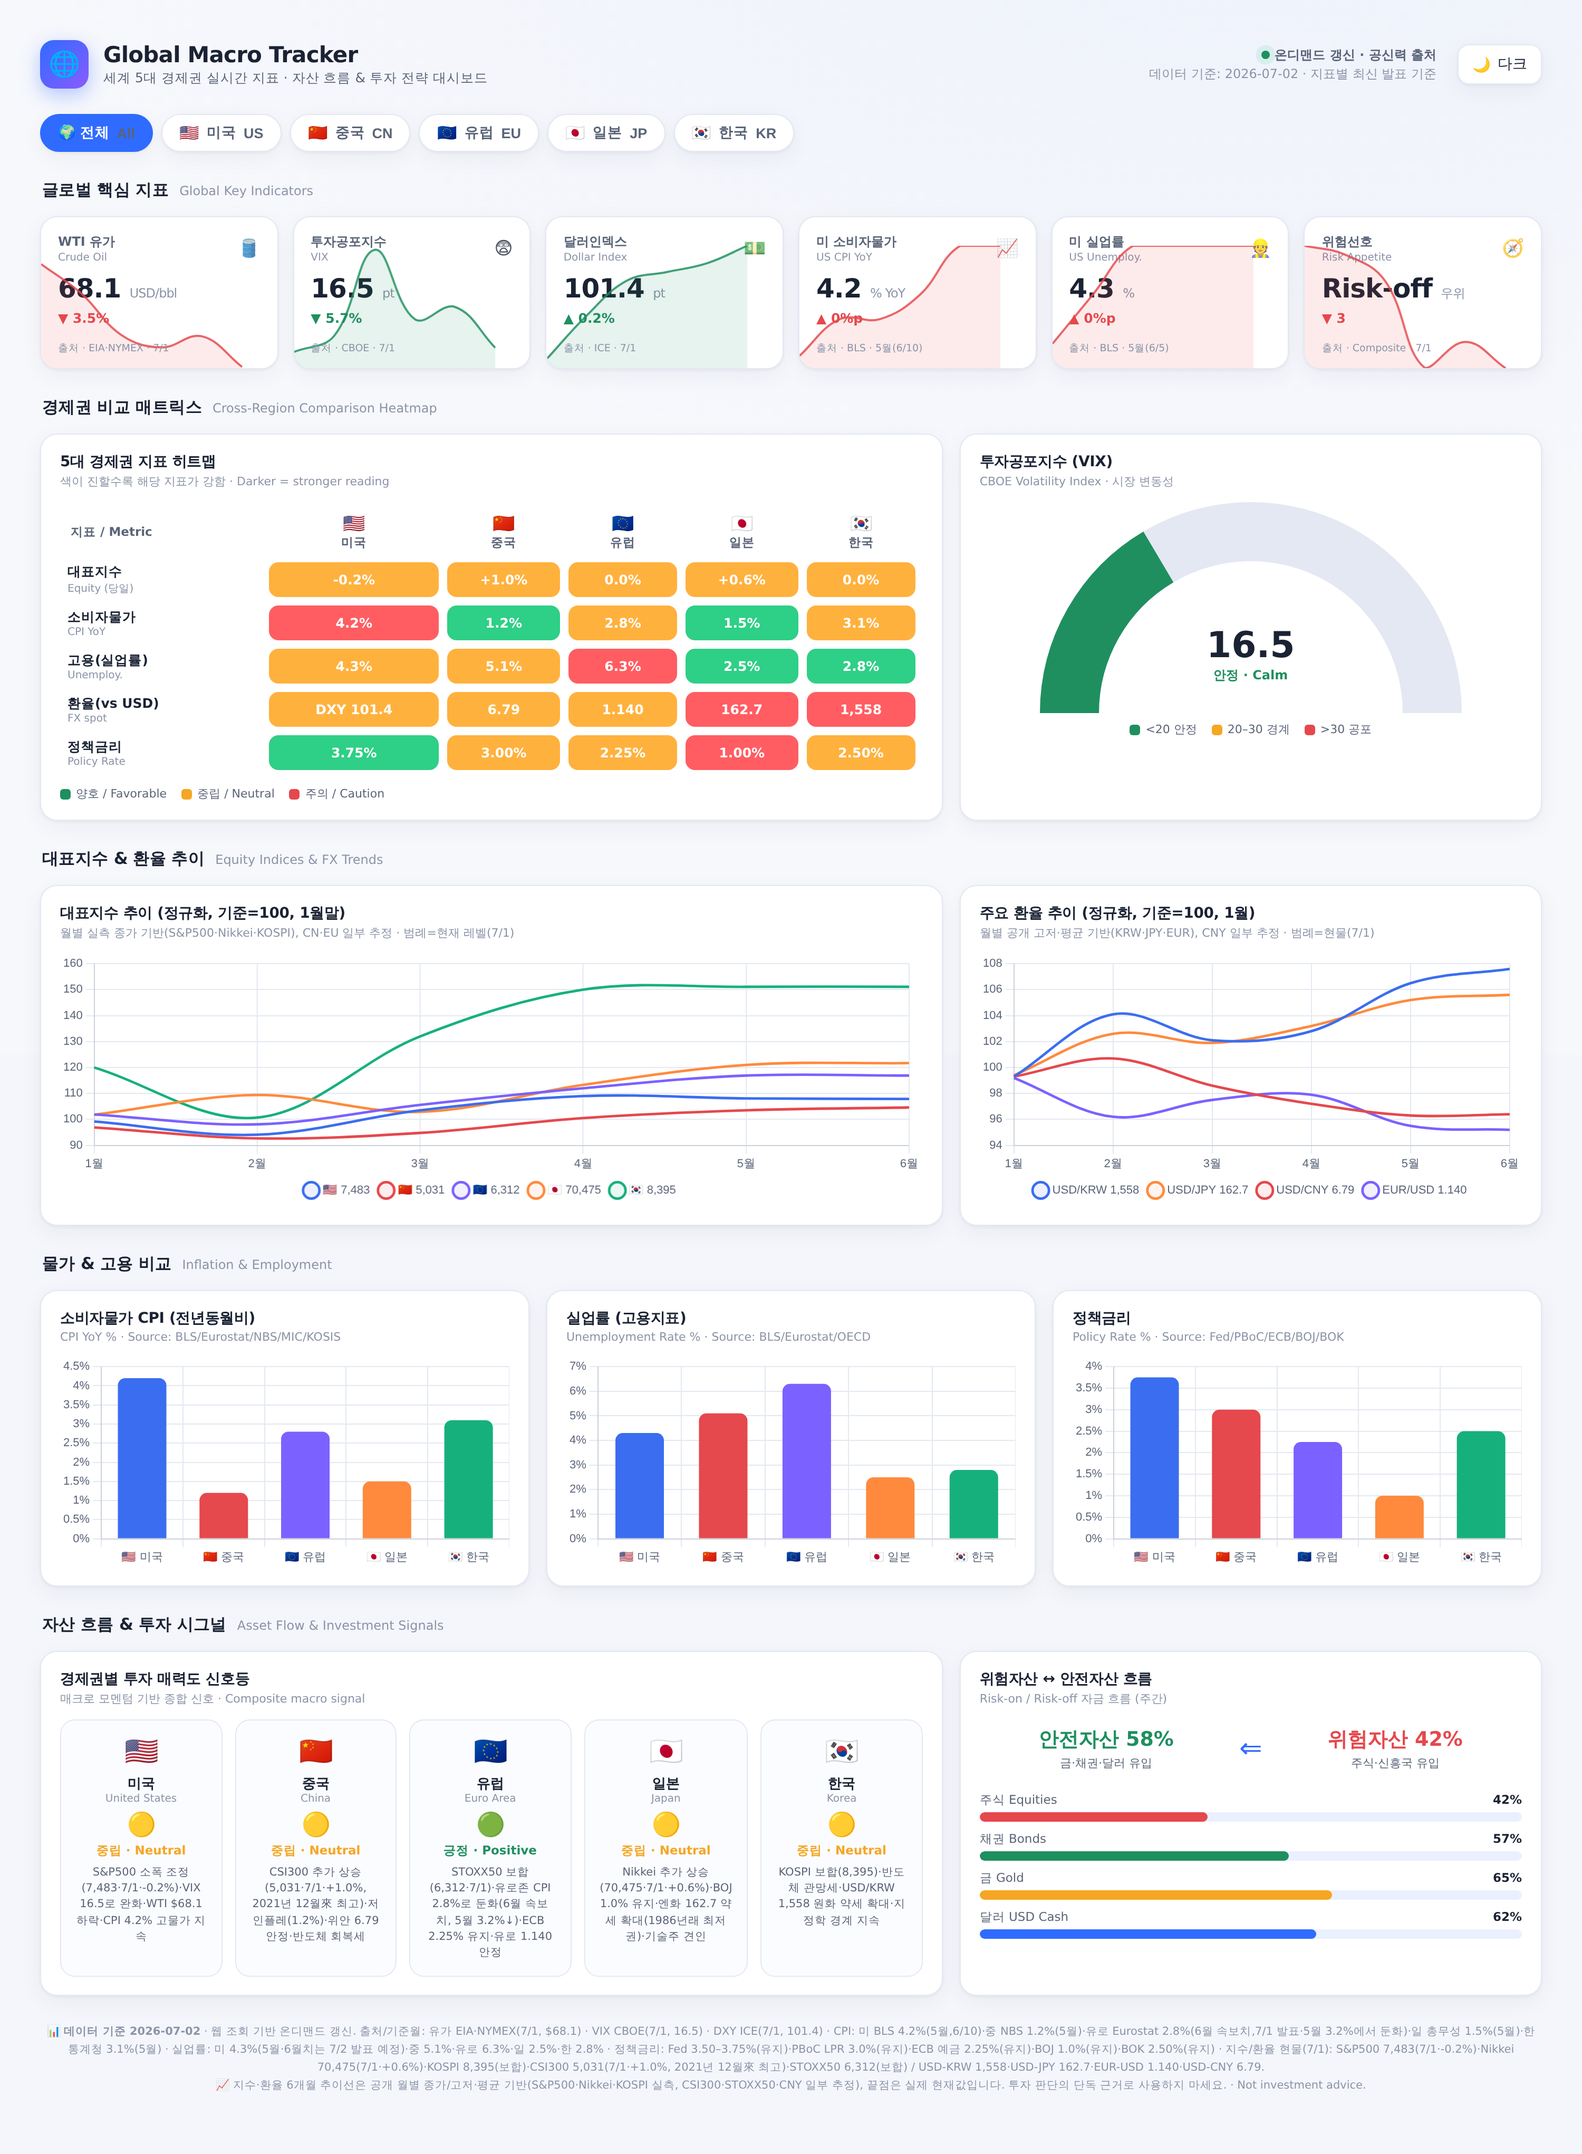
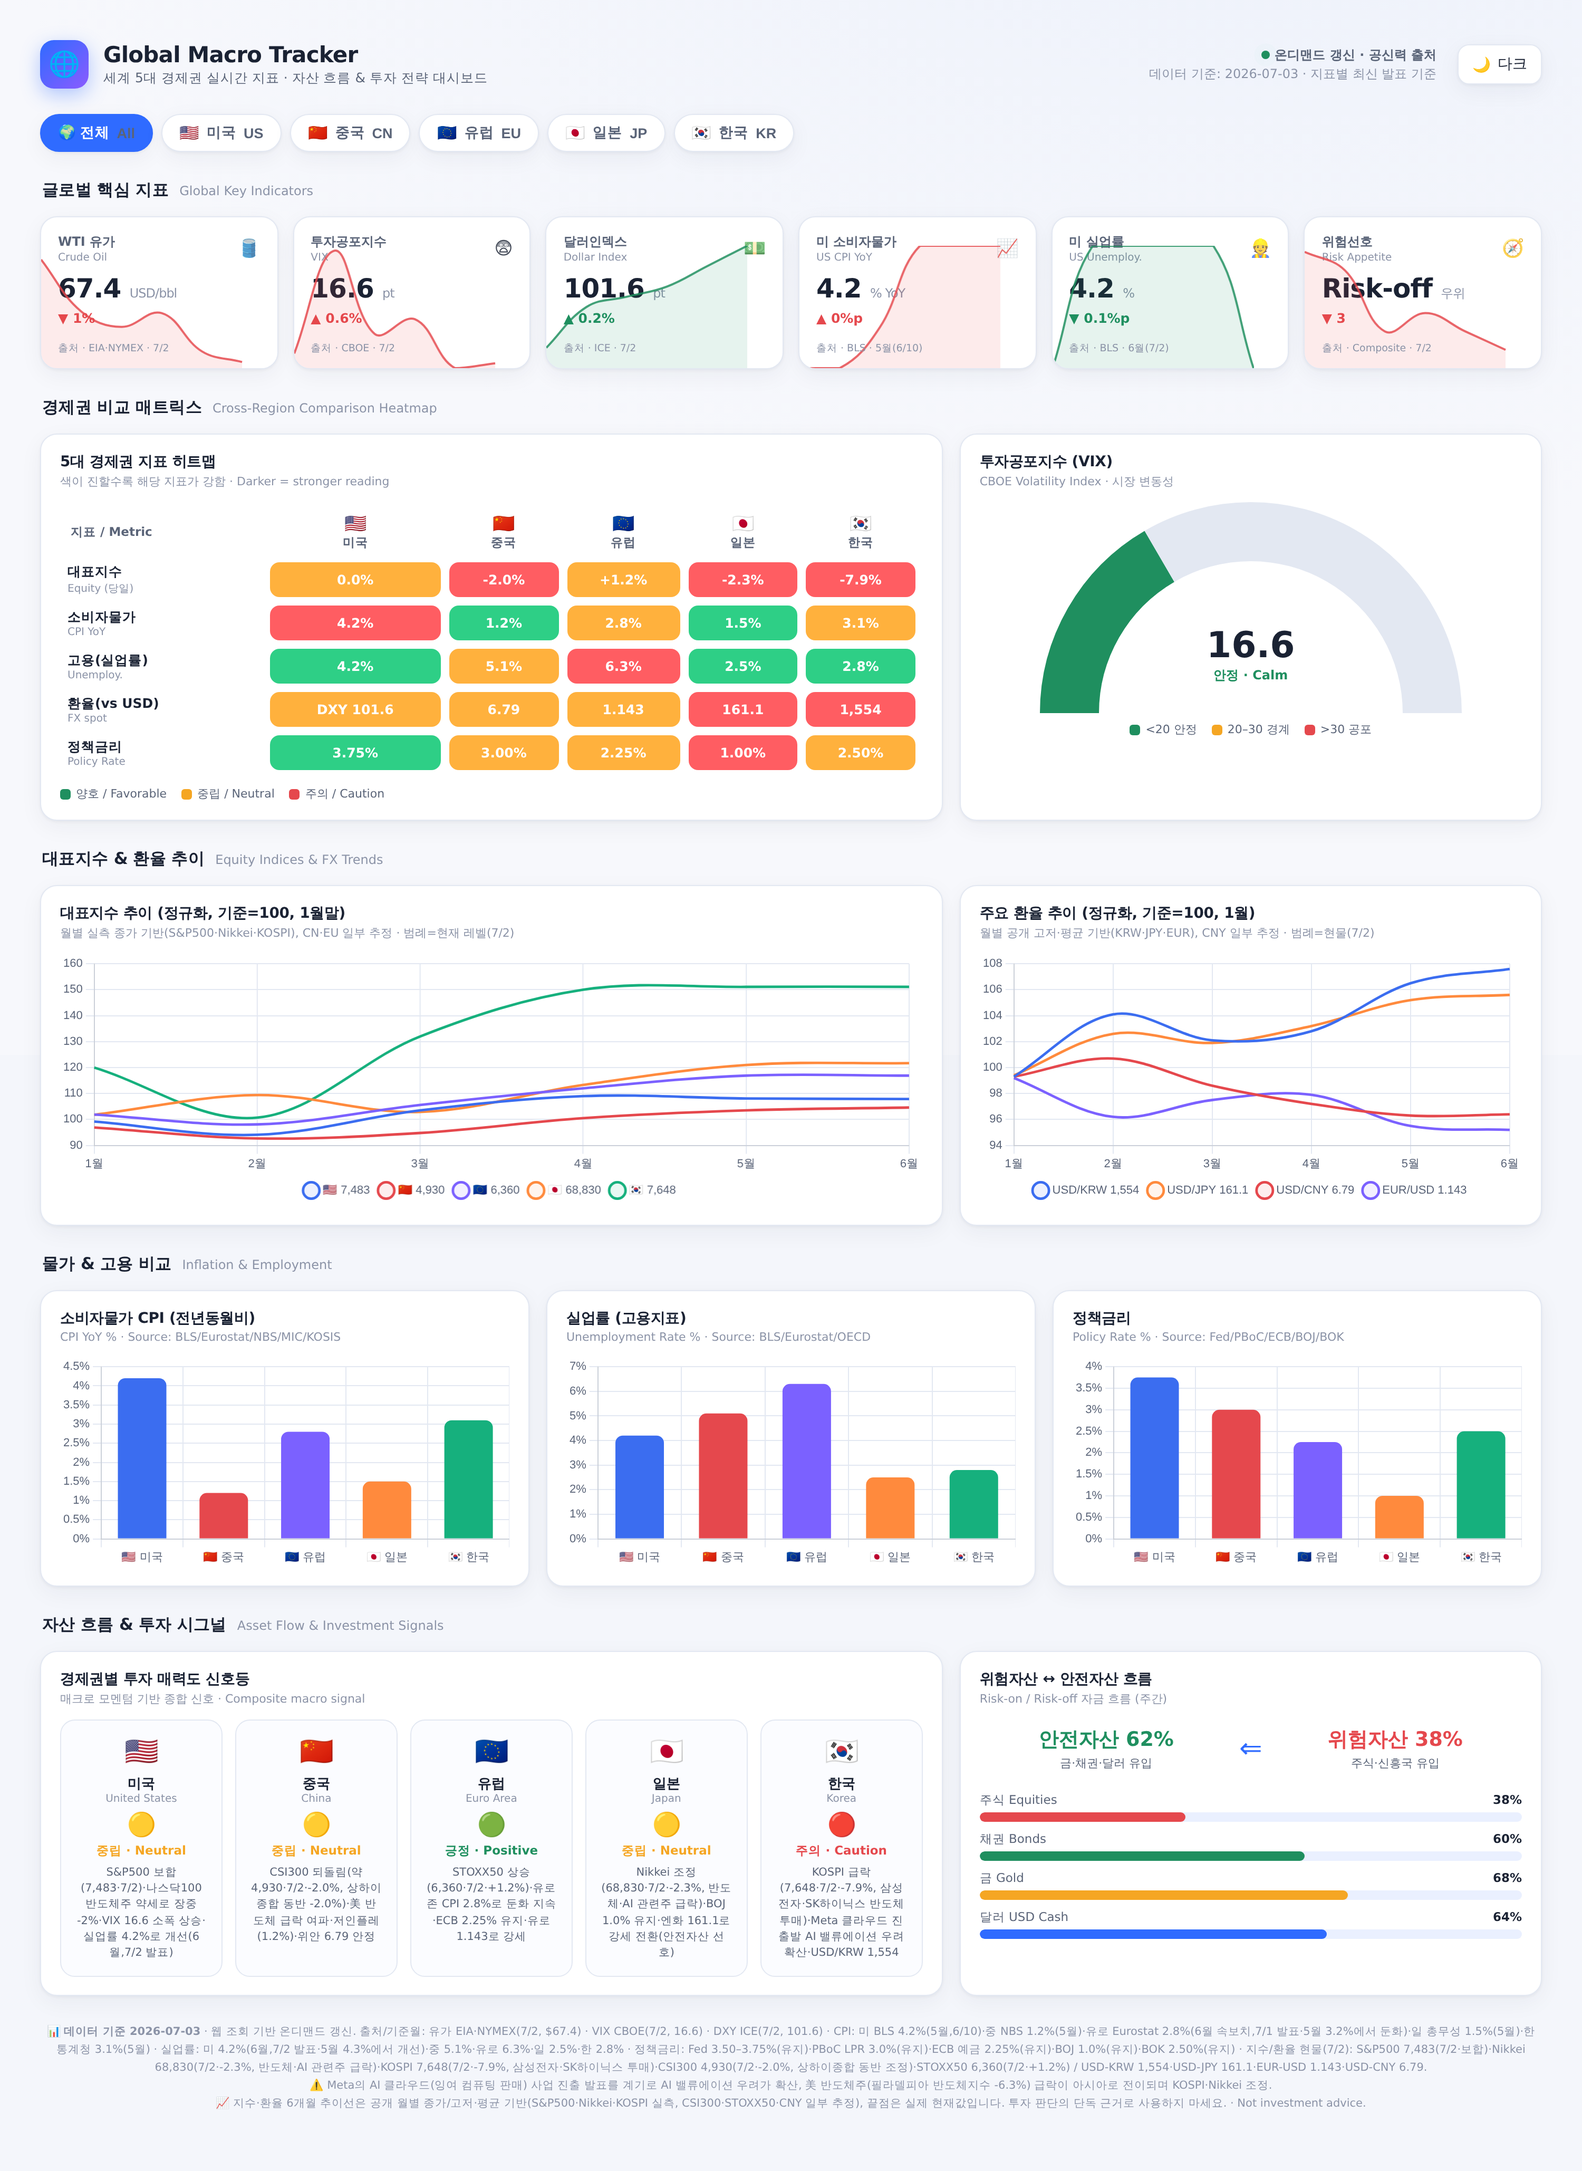
데이터 갱신 2026-07-03: Meta발 AI 반도체 밸류에이션 우려로 KOSPI -7.9%·Nikkei -2.3% 급락 반영
- WTI $67.4(-1.0%)·VIX 16.6(+0.6%)·DXY 101.6(+0.2%) 갱신
- 美 6월 실업률 4.2%로 개선(7/2 발표, 5월 4.3%)
- KOSPI 7,648(-7.9%, 삼성전자·SK하이닉스 반도체 투매)·Nikkei 68,830(-2.3%)·
  CSI300 4,930(-2.0%, 상하이종합 동반 조정)·STOXX50 6,360(+1.2%)·S&P500 7,483(보합)
- USD/KRW 1,554·USD/JPY 161.1(강세 전환)·EUR/USD 1.143·USD/CNY 6.79
- 한국 투자 시그널 🟡중립 → 🔴주의로 하향, 위험선호 리스크오프 심화(38/62)
- renders/mockup-dark.png, mockup-light.png 재렌더링 (콘솔 에러 0)

Claude-Session: https://claude.ai/code/session_014C9TifWopxn4TbuNJRCMpv

diff --git a/index.html b/index.html
@@ -213,7 +213,7 @@
     <div class="spacer"></div>
     <div class="updated">
       <div><span class="live-dot"></span><b>온디맨드 갱신 · 공신력 출처</b></div>
-      <div id="updated-time">데이터 기준: 2026-07-02 · 지표별 최신 발표 기준</div>
+      <div id="updated-time">데이터 기준: 2026-07-03 · 지표별 최신 발표 기준</div>
     </div>
     <button class="theme-toggle" id="themeBtn">🌙 <span id="themeLabel">다크</span></button>
   </header>
@@ -274,12 +274,12 @@
   <div class="grid g-2">
     <div class="card">
       <h3>대표지수 추이 (정규화, 기준=100, 1월말)</h3>
-      <div class="h-en">월별 실측 종가 기반(S&amp;P500·Nikkei·KOSPI), CN·EU 일부 추정 · 범례=현재 레벨(7/1)</div>
+      <div class="h-en">월별 실측 종가 기반(S&amp;P500·Nikkei·KOSPI), CN·EU 일부 추정 · 범례=현재 레벨(7/2)</div>
       <div class="canvas-box"><canvas id="idxChart"></canvas></div>
     </div>
     <div class="card">
       <h3>주요 환율 추이 (정규화, 기준=100, 1월)</h3>
-      <div class="h-en">월별 공개 고저·평균 기반(KRW·JPY·EUR), CNY 일부 추정 · 범례=현물(7/1)</div>
+      <div class="h-en">월별 공개 고저·평균 기반(KRW·JPY·EUR), CNY 일부 추정 · 범례=현물(7/2)</div>
       <div class="canvas-box"><canvas id="fxChart"></canvas></div>
     </div>
   </div>
@@ -329,12 +329,13 @@
   </div>
 
   <div class="footnote">
-    📊 <b>데이터 기준 2026-07-02</b> · 웹 조회 기반 온디맨드 갱신. 출처/기준월:
-    유가 EIA·NYMEX(7/1, $68.1) · VIX CBOE(7/1, 16.5) · DXY ICE(7/1, 101.4) ·
+    📊 <b>데이터 기준 2026-07-03</b> · 웹 조회 기반 온디맨드 갱신. 출처/기준월:
+    유가 EIA·NYMEX(7/2, $67.4) · VIX CBOE(7/2, 16.6) · DXY ICE(7/2, 101.6) ·
     CPI: 미 BLS 4.2%(5월,6/10)·중 NBS 1.2%(5월)·유로 Eurostat 2.8%(6월 속보치,7/1 발표·5월 3.2%에서 둔화)·일 총무성 1.5%(5월)·한 통계청 3.1%(5월) ·
-    실업률: 미 4.3%(5월·6월치는 7/2 발표 예정)·중 5.1%·유로 6.3%·일 2.5%·한 2.8% ·
+    실업률: 미 4.2%(6월,7/2 발표·5월 4.3%에서 개선)·중 5.1%·유로 6.3%·일 2.5%·한 2.8% ·
     정책금리: Fed 3.50–3.75%(유지)·PBoC LPR 3.0%(유지)·ECB 예금 2.25%(유지)·BOJ 1.0%(유지)·BOK 2.50%(유지) ·
-    지수/환율 현물(7/1): S&amp;P500 7,483(7/1·-0.2%)·Nikkei 70,475(7/1·+0.6%)·KOSPI 8,395(보합)·CSI300 5,031(7/1·+1.0%, 2021년 12월來 최고)·STOXX50 6,312(보합) / USD-KRW 1,558·USD-JPY 162.7·EUR-USD 1.140·USD-CNY 6.79.<br/>
+    지수/환율 현물(7/2): S&amp;P500 7,483(7/2·보합)·Nikkei 68,830(7/2·-2.3%, 반도체·AI 관련주 급락)·KOSPI 7,648(7/2·-7.9%, 삼성전자·SK하이닉스 투매)·CSI300 4,930(7/2·-2.0%, 상하이종합 동반 조정)·STOXX50 6,360(7/2·+1.2%) / USD-KRW 1,554·USD-JPY 161.1·EUR-USD 1.143·USD-CNY 6.79.<br/>
+    ⚠ Meta의 AI 클라우드(잉여 컴퓨팅 판매) 사업 진출 발표를 계기로 AI 밸류에이션 우려가 확산, 美 반도체주(필라델피아 반도체지수 -6.3%) 급락이 아시아로 전이되며 KOSPI·Nikkei 조정.<br/>
     📈 지수·환율 6개월 추이선은 공개 월별 종가/고저·평균 기반(S&amp;P500·Nikkei·KOSPI 실측, CSI300·STOXX50·CNY 일부 추정), 끝점은 실제 현재값입니다. 투자 판단의 단독 근거로 사용하지 마세요. · Not investment advice.
   </div>
 </div>
@@ -356,50 +357,50 @@ const REGIONS = {
 };
 
 const DATA = {
-  // 글로벌 KPI 카드 — 2026-07-02 갱신 (VIX·DXY·WTI 7/1 종가·지수 7/1)
+  // 글로벌 KPI 카드 — 2026-07-03 갱신 (VIX·DXY·WTI 7/2 종가·지수 7/2, Meta발 반도체 급락 반영)
   kpi: [
-    { id:'wti',  label:'WTI 유가',     en:'Crude Oil',     icon:'🛢', val:'68.1', unit:'USD/bbl', chg:-3.5, src:'EIA·NYMEX · 7/1',
-      spark:[76.5,74.1,70.7,69.7,70.6,68.1] },
-    { id:'vix',  label:'투자공포지수',  en:'VIX',           icon:'😨', val:'16.5', unit:'pt', chg:-5.7, src:'CBOE · 7/1', invert:true,
-      spark:[16.4,16.8,18.9,17.2,17.5,16.5] },
-    { id:'dxy',  label:'달러인덱스',    en:'Dollar Index',  icon:'💵', val:'101.4',unit:'pt', chg:+0.2, src:'ICE · 7/1',
-      spark:[100.1,100.6,101.0,101.1,101.2,101.4] },
+    { id:'wti',  label:'WTI 유가',     en:'Crude Oil',     icon:'🛢', val:'67.4', unit:'USD/bbl', chg:-1.0, src:'EIA·NYMEX · 7/2',
+      spark:[74.1,70.7,69.7,70.6,68.1,67.4] },
+    { id:'vix',  label:'투자공포지수',  en:'VIX',           icon:'😨', val:'16.6', unit:'pt', chg:+0.6, src:'CBOE · 7/2', invert:true,
+      spark:[16.8,18.9,17.2,17.5,16.5,16.6] },
+    { id:'dxy',  label:'달러인덱스',    en:'Dollar Index',  icon:'💵', val:'101.6',unit:'pt', chg:+0.2, src:'ICE · 7/2',
+      spark:[100.6,101.0,101.1,101.2,101.4,101.6] },
     { id:'cpi',  label:'미 소비자물가', en:'US CPI YoY',    icon:'📈', val:'4.2', unit:'% YoY', chg:0.0, src:'BLS · 5월(6/10)', invert:true,
-      spark:[3.3,3.6,3.6,3.8,4.2,4.2] },
-    { id:'emp',  label:'미 실업률',     en:'US Unemploy.',  icon:'👷', val:'4.3', unit:'%', chg:0.0, src:'BLS · 5월(6/5)', invert:true,
-      spark:[4.1,4.2,4.3,4.3,4.3,4.3] },
-    { id:'risk', label:'위험선호',      en:'Risk Appetite', icon:'🧭', val:'Risk-off',unit:'우위', chg:-3.0, src:'Composite · 7/1',
-      spark:[50,49,46,36,39,36] },
+      spark:[3.6,3.6,3.8,4.2,4.2,4.2] },
+    { id:'emp',  label:'미 실업률',     en:'US Unemploy.',  icon:'👷', val:'4.2', unit:'%', chg:-0.1, src:'BLS · 6월(7/2)', invert:true,
+      spark:[4.2,4.3,4.3,4.3,4.3,4.2] },
+    { id:'risk', label:'위험선호',      en:'Risk Appetite', icon:'🧭', val:'Risk-off',unit:'우위', chg:-3.0, src:'Composite · 7/2',
+      spark:[49,46,36,39,36,33] },
   ],
   // 히트맵: 지표 × 경제권. score 0~100(높을수록 강/양호), d=표시값(실측)
   matrix: [
     { metric:'대표지수', en:'Equity (당일)', fmt:'%',
-      cells:{ US:{d:'-0.2%',s:52}, CN:{d:'+1.0%',s:63}, EU:{d:'0.0%',s:50}, JP:{d:'+0.6%',s:58}, KR:{d:'0.0%',s:50} } },
+      cells:{ US:{d:'0.0%',s:50}, CN:{d:'-2.0%',s:40}, EU:{d:'+1.2%',s:62}, JP:{d:'-2.3%',s:40}, KR:{d:'-7.9%',s:14} } },
     { metric:'소비자물가', en:'CPI YoY', fmt:'',
       cells:{ US:{d:'4.2%',s:35}, CN:{d:'1.2%',s:85}, EU:{d:'2.8%',s:58}, JP:{d:'1.5%',s:78}, KR:{d:'3.1%',s:52} } },
     { metric:'고용(실업률)', en:'Unemploy.', fmt:'',
-      cells:{ US:{d:'4.3%',s:68}, CN:{d:'5.1%',s:55}, EU:{d:'6.3%',s:45}, JP:{d:'2.5%',s:92}, KR:{d:'2.8%',s:88} } },
+      cells:{ US:{d:'4.2%',s:72}, CN:{d:'5.1%',s:55}, EU:{d:'6.3%',s:45}, JP:{d:'2.5%',s:92}, KR:{d:'2.8%',s:88} } },
     { metric:'환율(vs USD)', en:'FX spot', fmt:'',
-      cells:{ US:{d:'DXY 101.4',s:57}, CN:{d:'6.79',s:65}, EU:{d:'1.140',s:67}, JP:{d:'162.7',s:26}, KR:{d:'1,558',s:33} } },
+      cells:{ US:{d:'DXY 101.6',s:58}, CN:{d:'6.79',s:65}, EU:{d:'1.143',s:68}, JP:{d:'161.1',s:30}, KR:{d:'1,554',s:35} } },
     { metric:'정책금리', en:'Policy Rate', fmt:'',
       cells:{ US:{d:'3.75%',s:70}, CN:{d:'3.00%',s:62}, EU:{d:'2.25%',s:56}, JP:{d:'1.00%',s:40}, KR:{d:'2.50%',s:58} } },
   ],
-  // 대표지수: 월별 실측 종가 기반 정규화(기준=100, 1월말). 끝값 라벨=실제 현재 레벨(7/1)
-  // 7/1 CSI300 +1.0%(5,031·2021년 12월來 최고)·Nikkei +0.6%(70,475) 추가 상승. S&P500 -0.2%(7,483) 소폭 조정, STOXX50·KOSPI는 보합
+  // 대표지수: 월별 실측 종가 기반 정규화(기준=100, 1월말). 끝값 라벨=실제 현재 레벨(7/2)
+  // 7/2 Meta발 AI 밸류에이션 우려로 美 반도체주 급락(필라델피아 반도체지수 -6.3%) → 아시아 전이: KOSPI -7.9%(삼성전자·SK하이닉스 투매), Nikkei -2.3%. CSI300도 상하이종합 동반 -2.0% 조정. STOXX50은 +1.2% 상승, S&P500은 보합
   indices: {
     labels: MONTHS,
-    levels: { US:'7,483', CN:'5,031', EU:'6,312', JP:'70,475', KR:'8,395' },
+    levels: { US:'7,483', CN:'4,930', EU:'6,360', JP:'68,830', KR:'7,648' },
     series: {
       US:[99.2,94.1,103.5,109.0,108.1,107.9], CN:[96.9,92.7,94.8,100.5,103.5,104.6],
       EU:[101.9,98.1,105.6,112.0,116.9,116.9], JP:[101.8,109.4,102.9,113.3,121.0,121.7],
       KR:[120.0,100.7,132.0,150.0,151.1,151.1],
     }
   },
-  // 환율: 월별 정규화(기준=100, 1월). 끝값 라벨=실제 현물(7/1)
-  // KRW·JPY 약세 확대(1,558·162.7), CNY·EUR는 소폭 보합권
+  // 환율: 월별 정규화(기준=100, 1월). 끝값 라벨=실제 현물(7/2)
+  // 반도체 급락발 리스크오프로 JPY 안전자산 선호 강세 전환(161.1), KRW도 소폭 강세(1,554), EUR 강세(1.143), CNY는 보합권(6.79)
   fx: {
     labels: MONTHS,
-    levels: { 'USD/KRW':'1,558', 'USD/JPY':'162.7', 'USD/CNY':'6.79', 'EUR/USD':'1.140' },
+    levels: { 'USD/KRW':'1,554', 'USD/JPY':'161.1', 'USD/CNY':'6.79', 'EUR/USD':'1.143' },
     series: {
       'USD/KRW':[99.3,104.1,102.1,102.8,106.5,107.6], 'USD/JPY':[99.4,102.6,101.9,103.2,105.2,105.6],
       'USD/CNY':[99.3,100.7,98.6,97.2,96.3,96.4], 'EUR/USD':[99.2,96.2,97.5,97.9,95.5,95.2],
@@ -407,23 +408,23 @@ const DATA = {
   },
   // CPI YoY 실측 (최신 발표월) — 유로존 6월 속보치 2.8%로 둔화(5월 3.2%)
   cpi: { US:4.2, CN:1.2, EU:2.8, JP:1.5, KR:3.1 },
-  // 실업률 실측
-  emp: { US:4.3, CN:5.1, EU:6.3, JP:2.5, KR:2.8 },
+  // 실업률 실측 — 美 6월치 4.2%로 개선(7/2 발표, 5월 4.3%)
+  emp: { US:4.2, CN:5.1, EU:6.3, JP:2.5, KR:2.8 },
   // 정책금리 실측
   rate:{ US:3.75, CN:3.00, EU:2.25, JP:1.00, KR:2.50 },
-  vix: 16.5,
+  vix: 16.6,
   // 투자 시그널 신호등 — 데이터 기반 종합 판단
   signals: {
-    US:{ light:'🟡', verdict:'중립',    vEn:'Neutral',    note:'S&P500 소폭 조정(7,483·7/1·-0.2%)·VIX 16.5로 완화·WTI $68.1 하락·CPI 4.2% 고물가 지속' },
-    CN:{ light:'🟡', verdict:'중립',    vEn:'Neutral',    note:'CSI300 추가 상승(5,031·7/1·+1.0%, 2021년 12월來 최고)·저인플레(1.2%)·위안 6.79 안정·반도체 회복세' },
-    EU:{ light:'🟢', verdict:'긍정',    vEn:'Positive',   note:'STOXX50 보합(6,312·7/1)·유로존 CPI 2.8%로 둔화(6월 속보치, 5월 3.2%↓)·ECB 2.25% 유지·유로 1.140 안정' },
-    JP:{ light:'🟡', verdict:'중립',    vEn:'Neutral',    note:'Nikkei 추가 상승(70,475·7/1·+0.6%)·BOJ 1.0% 유지·엔화 162.7 약세 확대(1986년래 최저권)·기술주 견인' },
-    KR:{ light:'🟡', verdict:'중립',    vEn:'Neutral',    note:'KOSPI 보합(8,395)·반도체 관망세·USD/KRW 1,558 원화 약세 확대·지정학 경계 지속' },
+    US:{ light:'🟡', verdict:'중립',    vEn:'Neutral',    note:'S&P500 보합(7,483·7/2)·나스닥100 반도체주 약세로 장중 -2%·VIX 16.6 소폭 상승·실업률 4.2%로 개선(6월,7/2 발표)' },
+    CN:{ light:'🟡', verdict:'중립',    vEn:'Neutral',    note:'CSI300 되돌림(약 4,930·7/2·-2.0%, 상하이종합 동반 -2.0%)·美 반도체 급락 여파·저인플레(1.2%)·위안 6.79 안정' },
+    EU:{ light:'🟢', verdict:'긍정',    vEn:'Positive',   note:'STOXX50 상승(6,360·7/2·+1.2%)·유로존 CPI 2.8%로 둔화 지속·ECB 2.25% 유지·유로 1.143로 강세' },
+    JP:{ light:'🟡', verdict:'중립',    vEn:'Neutral',    note:'Nikkei 조정(68,830·7/2·-2.3%, 반도체·AI 관련주 급락)·BOJ 1.0% 유지·엔화 161.1로 강세 전환(안전자산 선호)' },
+    KR:{ light:'🔴', verdict:'주의',    vEn:'Caution',    note:'KOSPI 급락(7,648·7/2·-7.9%, 삼성전자·SK하이닉스 반도체 투매)·Meta 클라우드 진출발 AI 밸류에이션 우려 확산·USD/KRW 1,554' },
   },
-  // 자산 흐름 (% 자금흐름 강도) — VIX 완화로 위험선호 소폭 개선, 달러 강세는 유지
-  flow: { riskOn: 42, riskOff: 58,
-    bars:[ {k:'주식 Equities', v:42, c:'var(--up)'}, {k:'채권 Bonds', v:57, c:'var(--down)'},
-           {k:'금 Gold', v:65, c:'var(--warn)'}, {k:'달러 USD Cash', v:62, c:'var(--accent)'} ] }
+  // 자산 흐름 (% 자금흐름 강도) — 반도체 급락발 리스크오프 심화, 채권·금·달러로 자금 이동
+  flow: { riskOn: 38, riskOff: 62,
+    bars:[ {k:'주식 Equities', v:38, c:'var(--up)'}, {k:'채권 Bonds', v:60, c:'var(--down)'},
+           {k:'금 Gold', v:68, c:'var(--warn)'}, {k:'달러 USD Cash', v:64, c:'var(--accent)'} ] }
 };
 
 /* ===================== THEME ===================== */
